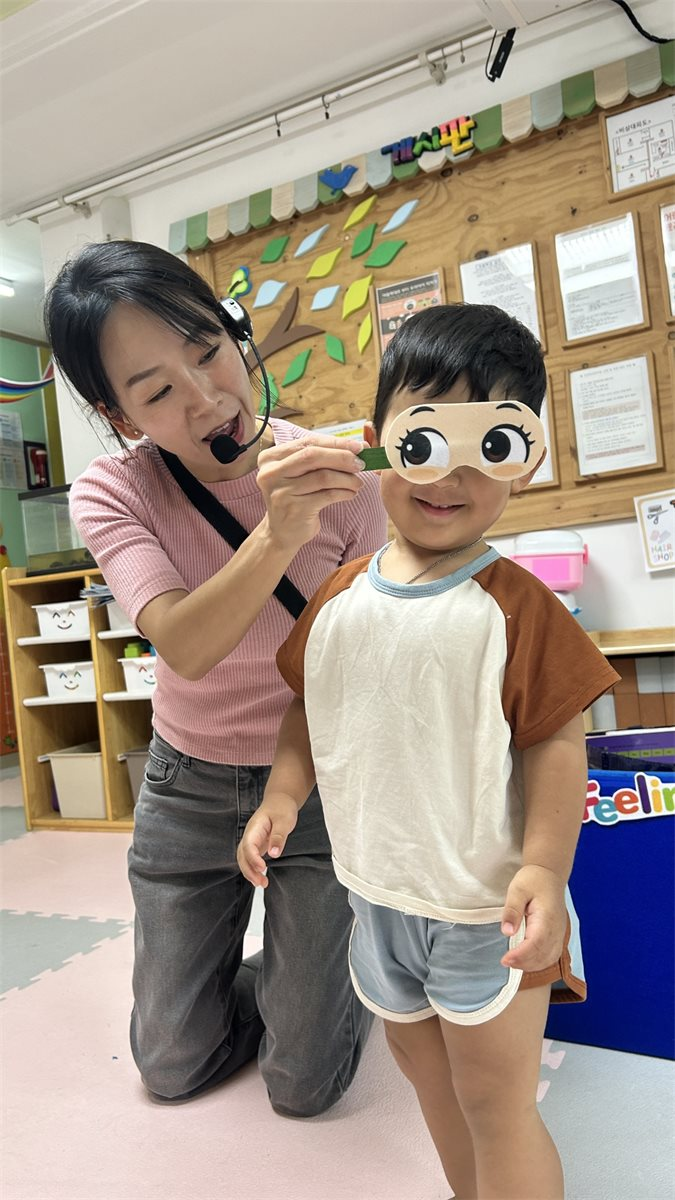
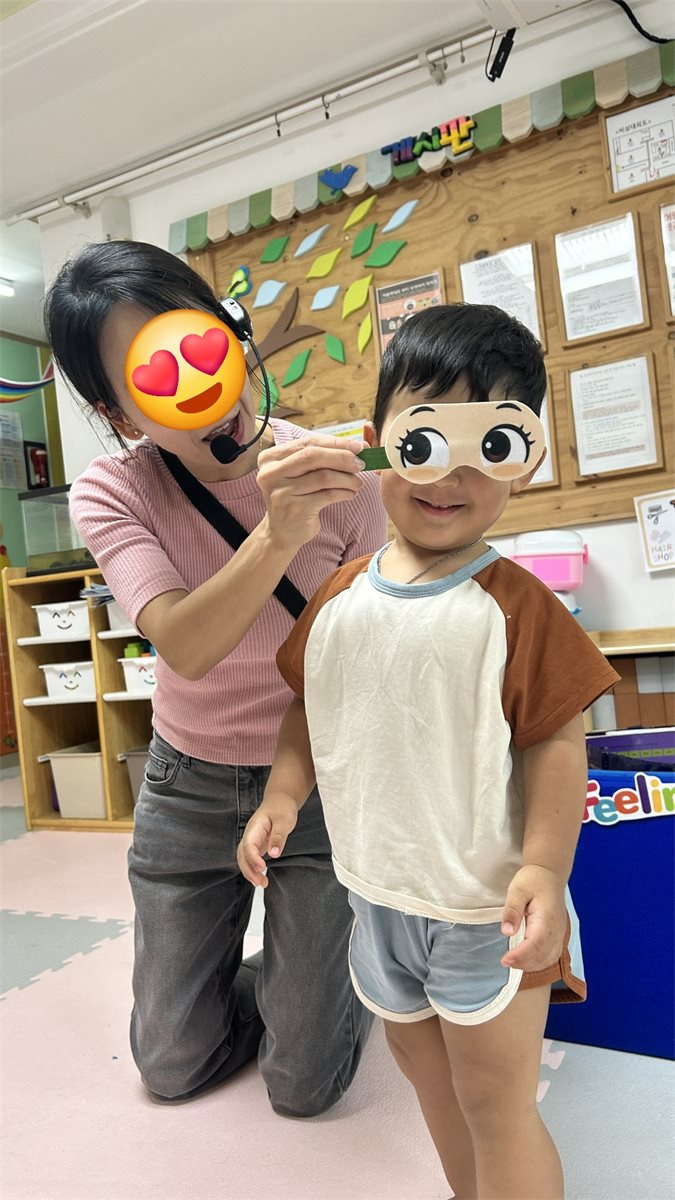
홈페이지 자동 업데이트 2026-10-11_015713

Changed region(s): [[0.1867, 0.2467, 0.3733, 0.37]]

diff --git a/index.html b/index.html
@@ -261,7 +261,7 @@ h1,h2,h3,.blockTitle,.sectionHead h2,.prideBox h3,.programText h3,.activityCard 
 <section class="careProof" id="care-proof"><div class="container">
   <div class="sectionHead"><div><span class="kicker">Real Kkomakids</span><h2>말보다 사진으로 보여드리는<br>꼬꼬마의 실제 하루</h2></div><p>아이와 눈을 맞추는 순간, 매일 준비되는 먹거리, 그리고 더 좋은 보육을 위해 함께 배우는 교직원. 꼬꼬마가 중요하게 생각하는 것은 일상 속에서 드러납니다.</p></div>
   <div class="proofGrid">
-    <article class="proofCard"><img src="/images/teacher-interaction.webp" width="1024" height="768" loading="lazy" alt="아동 얼굴을 가림 처리한 꼬꼬마어린이집 교사와 영아의 바깥놀이 상호작용 모습"><div class="proofText"><span class="tag">따뜻한 상호작용</span><h3>아이 곁으로 내려가<br>같은 눈높이에서 만납니다</h3><p>무엇을 시킬지보다 아이가 지금 무엇을 보고, 느끼고, 표현하는지 먼저 살핍니다. 놀이 속 작은 신호에도 반응하며 아이의 생각이 이어지도록 기다립니다.</p></div></article>
+    <article class="proofCard"><img src="/images/teacher-interaction.jpg" width="1024" height="576" loading="lazy" alt="꼬꼬마어린이집 교사와 영아들이 바깥에 둘러앉아 함께 노는 상호작용 모습"><div class="proofText"><span class="tag">따뜻한 상호작용</span><h3>아이 곁으로 내려가<br>같은 눈높이에서 만납니다</h3><p>무엇을 시킬지보다 아이가 지금 무엇을 보고, 느끼고, 표현하는지 먼저 살핍니다. 놀이 속 작은 신호에도 반응하며 아이의 생각이 이어지도록 기다립니다.</p></div></article>
     <article class="proofCard meal"><img src="/images/meal-record.webp" width="1600" height="1260" loading="lazy" alt="꼬꼬마어린이집의 실제 오전간식 점심 오후간식 급식 기록"><div class="proofText"><span class="tag">잘 먹는 하루</span><h3>아이의 하루를 채우는<br>정성스러운 급식</h3><p>사진은 꼬꼬마에서 제공한 실제 오전간식·점심·오후간식 기록의 한 예입니다. 먹는 시간도 아이에게는 중요한 생활 경험이기에 편안하고 즐거운 식사 시간을 소중히 여깁니다.</p></div></article>
     <article class="proofCard staffWide"><img src="/images/teacher-learning-community.webp" width="1448" height="1086" loading="lazy" alt="꼬꼬마어린이집 10명의 보육교직원이 학습공동체로 함께 연구하는 모습"><div class="proofText"><span class="tag">10명의 보육교직원 · 학습공동체</span><h3>좋은 보육은<br>선생님의 배움에서 시작됩니다</h3><p>꼬꼬마의 10명 보육교직원은 익숙한 방식에 머무르지 않고 아이들의 놀이와 발달을 함께 고민하고 연구합니다. 한 가지 놀이도 ‘왜 이 경험이 필요한지’를 생각하며 더 나은 하루를 만들어갑니다.</p><div class="proofPoints"><div class="proofPoint"><b>●</b><span>아이의 놀이와 상호작용을 함께 돌아보는 교직원 학습공동체</span></div><div class="proofPoint"><b>●</b><span>아이의 흥미와 발달에 맞는 놀이를 고민하고 준비하는 문화</span></div><div class="proofPoint"><b>●</b><span>매일 배우고 발전하려는 원장과 교직원이 함께 성장하는 어린이집</span></div></div></div></article>
   </div>
